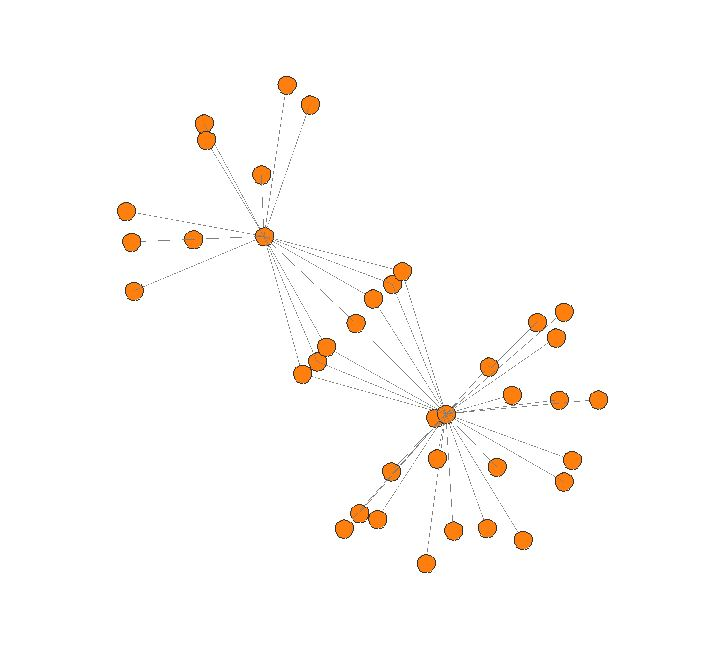
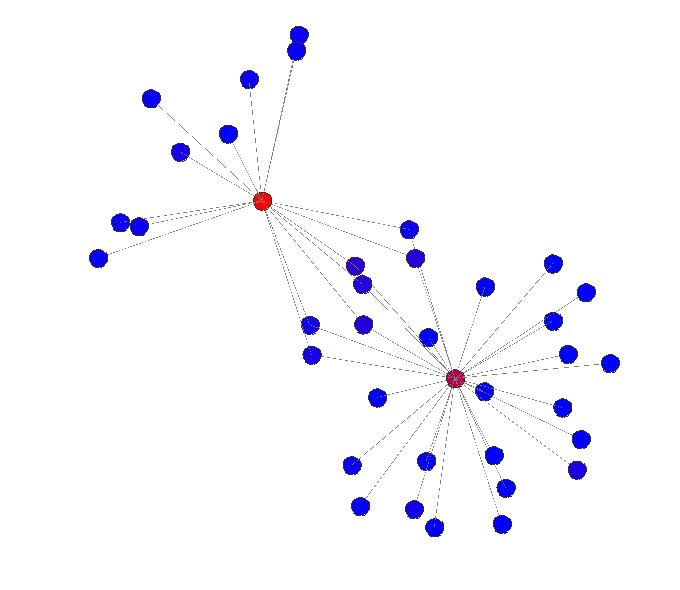
Updated documentation to reflect color

diff --git a/README.md b/README.md
@@ -33,8 +33,14 @@ Usage is simple: `./visualize <pacp file>`
 ## What do the different options mean?
 `1. Force graph of IP interactions` : This option creates nodes on a graph where each node is
 a computer on the network and each edge connecting them indicates a transaction between computers.
-The resulting graph is interactive. Hovering over a node gives you its IP address, the left mouse
-button allows you to spin the graph, and the right mouse button allows you to move the graph.
+Each node on the graph is colored according to the amount of packets it sent out. If node sent out
+100% of the packets in the pcap, it will be solid red. On the other hand, if a node sends out only
+one or two packets (resulting in nearly 0% of packets sent out), it will be colored solid blue. A
+node that sends out about 50% of the traffic in the pcap will be colored purple. These colors are
+a spectrum; this means if a node looks blueish purple, it sent out more traffic than a node colored
+blue but less traffic than a node colored purple. The resulting graph is interactive. Hovering
+over a node gives you its IP address, the left mouse button allows you to spin the graph, and the
+right mouse button allows you to move the graph. Scrolling the wheel lets you zoom in and out.
 ![alt tag](https://raw.githubusercontent.com/TRDan6577/networkStatistics/master/exampleOutput/forcegraph1.JPG)
 ![alt tag](https://raw.githubusercontent.com/TRDan6577/networkStatistics/master/exampleOutput/forcegraph2.JPG)
 
